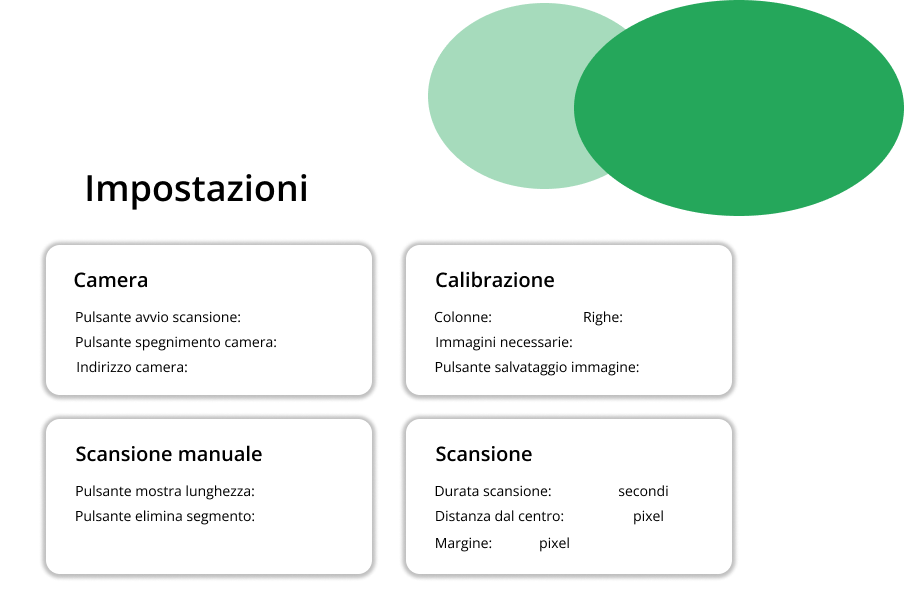
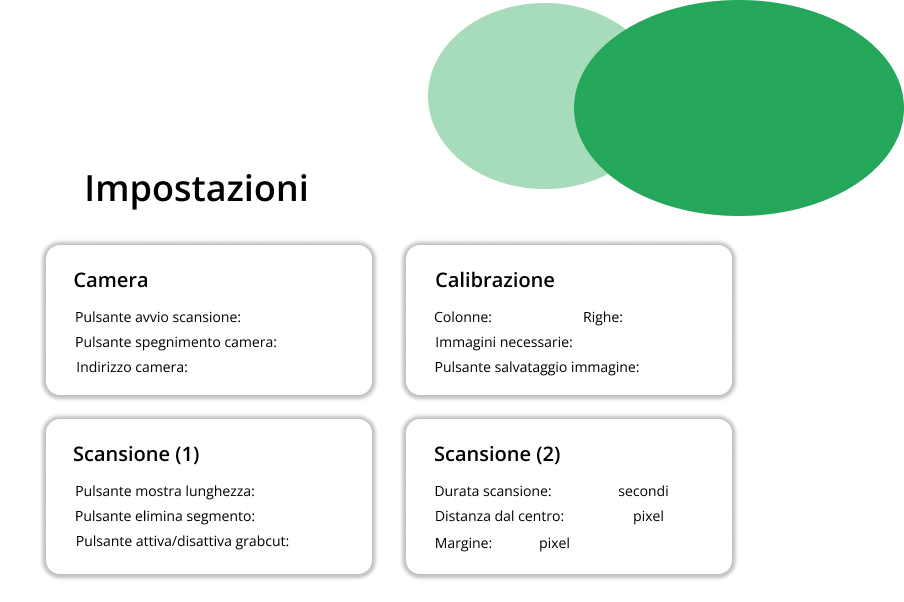
'activate/deactivate grabcut char' added to 'SettingsPage'

Changed region(s): [[0.0619, 0.7475, 0.3097, 0.7774], [0.0929, 0.897, 0.3097, 0.9269], [0.4646, 0.7475, 0.6195, 0.7774]]

diff --git a/App/UI/Settings/settings_page.py b/App/UI/Settings/settings_page.py
@@ -260,6 +260,27 @@ class SettingsPage(Page):
             height=19
         )
 
+        self.manage_grabcut_char_field = self.canvas.create_image(
+            338.5, 418.5,
+            image=self.short_field_img
+        )
+
+        self.manage_grabcut_char_field = FormField(
+            root=self.root,
+            input_type=constants.DataTypes.CHAR,
+            setting='CHANGE_MASK_CHAR',
+            bd=0,
+            bg="#ffffff",
+            highlightthickness=0,
+            justify="center"
+        )
+
+        self.manage_grabcut_char_field.place(
+            x=313, y=410.4,
+            width=51,
+            height=19
+        )
+
         self.padding_field = self.canvas.create_image(
             526.5, 418.5,
             image=self.extra_short_field_img
@@ -392,6 +413,7 @@ class SettingsPage(Page):
         self.scan_duration_field.update_setting()
         self.show_segment_length_char_field.update_setting()
         self.erase_segment_char_field.update_setting()
+        self.manage_grabcut_char_field.update_setting()
         self.padding_field.update_setting()
         self.center_boundary_field.update_setting()
         self.chessboard_cols_field.update_setting()
